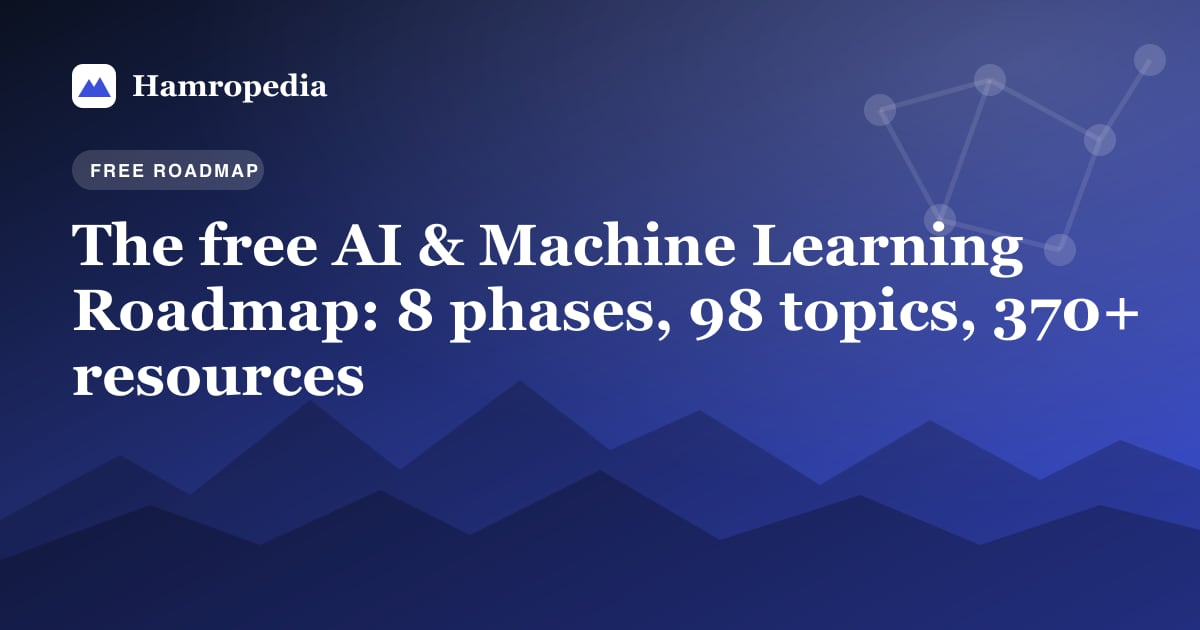
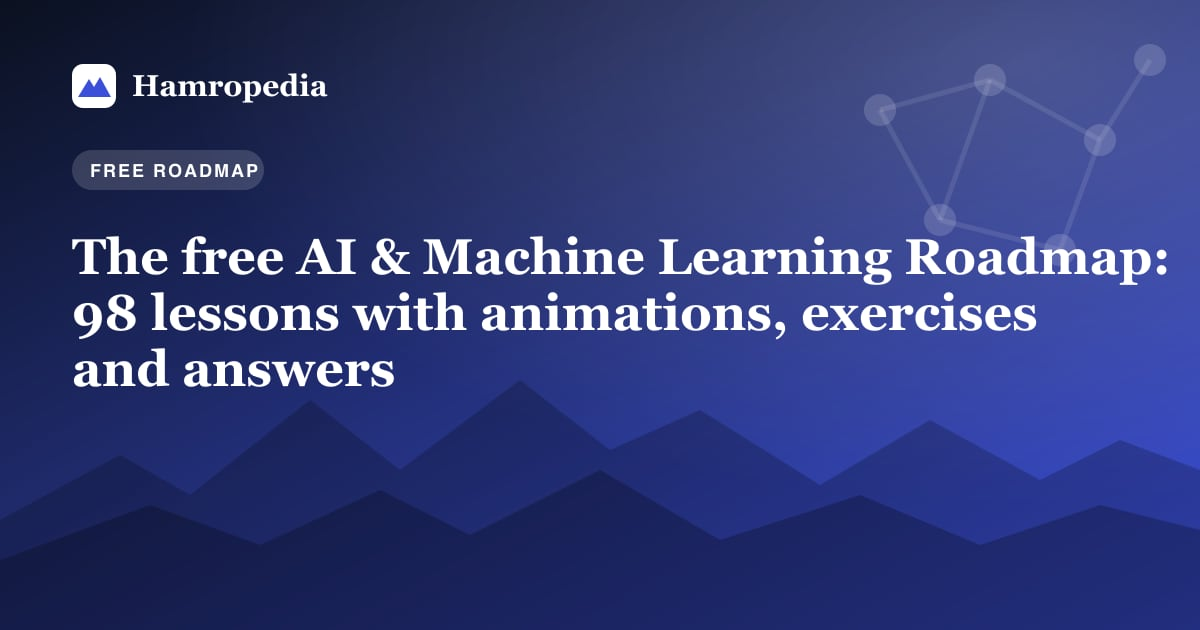
Mention all four courses across the site, not only the AI roadmap

Changed region(s): [[0.0617, 0.3317, 0.9867, 0.6333]]

diff --git a/src/pages/static.js b/src/pages/static.js
@@ -21,13 +21,13 @@ export function renderAbout(version) {
     path: '/about-us/',
     title: 'About Hamropedia',
     eyebrow: 'About',
-    description: 'Hamropedia is a free site by AI software engineer Manoj Kumar Thapa: news explained simply, study-abroad guides, a free AI roadmap and useful tools.',
+    description: 'Hamropedia is a free site by AI software engineer Manoj Kumar Thapa: news explained simply, study-abroad guides, free courses and useful tools.',
     lead: 'Carefully checked articles for curious readers everywhere: guides that match the official sites, news with its sources showing, and tools that work.',
     html: `<figure class="about-photo"><img src="/images/manojkumarthapa.webp" alt="Manoj Kumar Thapa" width="440" height="519" decoding="async"><figcaption>${esc(site.author.name)}<span>${esc(site.author.role)}, ${esc(site.author.location)}</span></figcaption></figure>
 <p>Hamropedia (<span lang="ne">हाम्रो</span>, “our”, + encyclopedia) started in ${site.established} as a small blog for Nepali students. It is now a hand-built site with three jobs:</p>
 <ul>
 <li><strong>Free tools</strong> that people actually search for every day: <a href="/tools/english-to-nepali/">English to Nepali typing</a>, a <a href="/tools/nepali-keyboard/">Nepali keyboard</a>, a <a href="/tools/nepali-date-converter/">Nepali date converter</a> and an <a href="/tools/age-calculator/">age calculator</a>.</li>
-<li><strong>Learning</strong>: a free <a href="/ai-roadmap/">AI &amp; machine learning roadmap</a> with ${'370+'} hand-picked resources, and coding guides for beginners.</li>
+<li><strong>Learning</strong>: four free courses, the <a href="/ai-roadmap/">AI &amp; Machine Learning Roadmap</a>, <a href="/system-design/">System Design</a>, <a href="/sql/">SQL</a> (with a query runner in your browser) and <a href="/dsa/">DSA (NeetCode 150)</a>, where every lesson has an animation, a diagram and exercises with answers. There are also <a href="/category/coding/">coding guides</a> for beginners. <a href="/learn/#start-here">Start here</a> to see how they fit together.</li>
 <li><strong>Guides and news</strong>: <a href="/category/study-abroad/">study-abroad guides</a> (NOC, WES, UK visas) and <a href="/news/">Nepal news explainers</a>, each linked to its sources.</li>
 </ul>
 <h2>Who writes it</h2>
@@ -182,7 +182,7 @@ export function renderTerms(version) {
 export function render404(version) {
   return layout({
     title: `Page not found | ${site.name}`,
-    description: 'This page could not be found. Try the latest news, the guides or the AI roadmap on Hamropedia.',
+    description: 'This page could not be found. Try the latest news, the guides or the free courses (AI, System Design, SQL and DSA) on Hamropedia.',
     path: '/404.html',
     noindex: true,
     version,

diff --git a/src/pages/learn.js b/src/pages/learn.js
@@ -8,18 +8,24 @@ import { sdPhases, sdTotals, CHECKS_ATTR as SD_ATTR } from './system-design.js';
 import { sqlPhases, sqlTotals, CHECKS_ATTR as SQL_ATTR } from './sql.js';
 import { dsaTopics, dsaTotals } from './dsa.js';
 
-/** The dark AI-roadmap band, shared by the home page and Learn & Build. */
+/** The dark "free courses" band on the home page: the four courses, with a way in. */
 export function roadmapBand() {
+  const courses = [
+    ['/ai-roadmap/', 'AI & Machine Learning Roadmap', `${totals.topics} lessons`, '#2563eb'],
+    ['/system-design/', 'System Design', `${sdTotals.topics} lessons`, '#0891b2'],
+    ['/sql/', 'SQL, with a query runner', `${sqlTotals.topics} lessons`, '#0d9488'],
+    ['/dsa/', 'DSA (NeetCode 150)', `${dsaTotals.problems} problems`, '#7c3aed'],
+  ];
   return `<section class="roadmap-band">
   <div class="wrap band-grid">
     <div>
-      <p class="eyebrow">Free · no sign-up</p>
-      <h2>Learn AI &amp; machine learning from zero</h2>
-      <p>${totals.phases} phases and ${totals.topics} full lessons, in the order that makes sense. Every lesson has an animation, a diagram, worked code and exercises with answers, plus the best free videos and explainers if you want more.</p>
-      <a class="btn btn-lg" href="/ai-roadmap/">Open the roadmap ${ICONS.arrow}</a>
+      <p class="eyebrow">Free courses · no sign-up</p>
+      <h2>Learn AI, system design, SQL and DSA from zero</h2>
+      <p>Four free courses that work the same way: every lesson has an animation, a diagram, worked code and exercises with answers. Tick off what you can do without notes, and the site remembers it in your browser.</p>
+      <a class="btn btn-lg" href="/learn/#start-here">Start here ${ICONS.arrow}</a>
     </div>
     <ol class="band-phases">
-      ${phases.map((p) => `<li style="--ph:${p.accent}"><a href="/ai-roadmap/${p.slug}/"><span>${p.number}</span>${esc(p.title)}</a></li>`).join('')}
+      ${courses.map(([href, name, size, colour], i) => `<li style="--ph:${colour}"><a href="${href}"><span>${i + 1}</span>${esc(name)} <small>${esc(size)}</small></a></li>`).join('')}
     </ol>
   </div>
 </section>`;
@@ -168,8 +174,8 @@ ${startHere()}
 </section>`;
 
   return layout({
-    title: `Learn & Build: free coding and AI learning paths | ${site.name}`,
-    ogTitle: 'Learn & Build: free coding and AI learning paths',
+    title: `Learn & Build: free AI, System Design, SQL and DSA courses | ${site.name}`,
+    ogTitle: 'Learn & Build: free AI, System Design, SQL and DSA courses',
     description: `Learn AI, system design, SQL and DSA for free: ${totals.topics + sdTotals.topics + sqlTotals.topics} lessons, the NeetCode 150, coding guides and project ideas.`,
     path: '/learn/',
     image: '/images/og/ai-roadmap.jpg',

diff --git a/src/pages/posts.js b/src/pages/posts.js
@@ -153,7 +153,7 @@ export function renderBlogIndex(posts, version) {
     crumbs: [{ name: 'Home', path: '/' }, { name: 'Blog', path: '/blog/' }],
     eyebrow: 'The blog',
     title: 'Guides, roadmaps and explainers',
-    lead: 'Study-abroad steps that match the official sites, coding and AI learning paths, and Nepal news explained with sources. Every article shows when it was published and last checked.',
+    lead: 'Study-abroad steps that match the official sites, coding and AI guides, and Nepal news explained with sources. Every article shows when it was published and last checked. For full courses, see <a href="/learn/">Learn &amp; Build</a>.',
   })}
 <section class="wrap blog-tools" id="search">
   <label class="search-box"><span class="sr-only">Search articles</span>
@@ -170,7 +170,7 @@ export function renderBlogIndex(posts, version) {
 </section>`;
   return layout({
     title: `Blog: study abroad, coding, AI and Nepal guides | ${site.name}`,
-    description: 'All Hamropedia articles: NOC and WES guides, UK student visa rules, coding and AI roadmaps, and news explainers with sources.',
+    description: 'All Hamropedia articles: NOC and WES guides, UK student visa rules, coding and AI guides, and news explainers with sources.',
     path: '/blog/',
     body,
     version,
@@ -193,7 +193,9 @@ export function renderCategory(slug, posts, version) {
   const crumbs = [{ name: 'Home', path: '/' }, { name: 'Blog', path: '/blog/' }, { name: c.name, path: `/category/${slug}/` }];
   const extra =
     slug === 'ai'
-      ? `<a class="banner" href="/ai-roadmap/"><strong>The free AI &amp; ML roadmap</strong><span>8 phases, 98 topics, 370+ hand-picked free resources, in order.</span></a>`
+      ? `<a class="banner" href="/ai-roadmap/"><strong>The free AI &amp; ML roadmap</strong><span>8 phases and 98 lessons, each with an animation, a diagram and exercises with answers.</span></a>`
+      : slug === 'coding'
+        ? `<a class="banner" href="/learn/#start-here"><strong>Free courses: System Design, SQL and DSA</strong><span>Full lessons with diagrams, a SQL runner in your browser, and the NeetCode 150 with reviews.</span></a>`
       : slug === 'nepal'
         ? `<a class="banner" href="/ne/" lang="ne"><strong>नेपाली समाचार</strong><span>यी समाचार नेपाली भाषामा पढ्नुहोस्।</span></a>`
         : '';

diff --git a/src/pages/home.js b/src/pages/home.js
@@ -24,7 +24,7 @@ export function renderHome(posts, version) {
     <div class="hero-copy">
       <p class="eyebrow">Hamropedia · <span lang="ne">हाम्रोपेडिया</span></p>
       <h1>News, study-abroad guides and learning, <em>explained simply</em>.</h1>
-      <p class="lead">Clear, sourced guides for studying abroad, the news that matters, and free learning paths in coding and AI, written in plain language for everyone.</p>
+      <p class="lead">Clear, sourced guides for studying abroad, the news that matters, and free courses in AI, system design, SQL and DSA, written in plain language for everyone.</p>
       <div class="hero-cta">
         <a class="btn btn-lg" href="/news/">Read the latest news</a>
         <a class="btn-ghost btn-lg" href="/blog/">Explore the guides</a>

diff --git a/src/assets/css/site.css b/src/assets/css/site.css
@@ -396,7 +396,8 @@ button { font: inherit; color: inherit; }
 
 /* ---------- footer ---------- */
 .site-footer { margin-top: clamp(64px, 9vw, 112px); border-top: 1px solid var(--border); background: var(--bg-2); padding-top: 48px; }
-.footer-grid { display: grid; grid-template-columns: 1.6fr repeat(3, 1fr); gap: 32px; }
+.footer-grid { display: grid; grid-template-columns: 1.6fr repeat(4, 1fr); gap: 32px; }
+.band-phases small { margin-left: auto; font-size: .82rem; opacity: .7; font-weight: 500; }
 .footer-about p { color: var(--muted); max-width: 42ch; margin-top: 14px; }
 .footer-h { font: 700 .8rem var(--font-body); text-transform: uppercase; letter-spacing: .1em; color: var(--muted); margin-bottom: 12px; }
 .site-footer ul { list-style: none; margin: 0; padding: 0; display: grid; gap: 8px; }

diff --git a/src/templates/layout.js b/src/templates/layout.js
@@ -169,6 +169,16 @@ function footer() {
       </ul>
     </div>
     <div>
+      <h2 class="footer-h">Free courses</h2>
+      <ul>
+        <li><a href="/ai-roadmap/">AI &amp; ML Roadmap</a></li>
+        <li><a href="/system-design/">System Design</a></li>
+        <li><a href="/sql/">SQL</a></li>
+        <li><a href="/dsa/">DSA (NeetCode 150)</a></li>
+        <li><a href="/learn/#start-here">Start here</a></li>
+      </ul>
+    </div>
+    <div>
       <h2 class="footer-h">Read</h2>
       <ul>${cats}<li><a href="/news/">News</a></li><li><a href="/blog/">All articles</a></li></ul>
     </div>

diff --git a/src/data/site.js b/src/data/site.js
@@ -5,7 +5,7 @@ export const site = {
   url: 'https://hamropedia.com', // no trailing slash
   tagline: 'News, guides and learning, explained simply',
   description:
-    'Study-abroad guides (NOC, WES, UK visas, EDV), news explained simply in English and Nepali, and free learning paths in coding and AI.',
+    'Study-abroad guides (NOC, WES, UK visas, EDV), news explained simply in English and Nepali, and free courses in AI, system design, SQL and DSA.',
   locale: 'en_GB',
   lang: 'en',
   author: {

diff --git a/src/content/posts/how-to-learn-ai-and-machine-learning-for-free.md b/src/content/posts/how-to-learn-ai-and-machine-learning-for-free.md
@@ -3,6 +3,7 @@ title: "How to Learn AI and Machine Learning for Free: A Realistic Roadmap"
 seoTitle: "How to Learn AI and Machine Learning for Free (2026 Roadmap)"
 description: "A realistic, free path into AI and machine learning: what to learn first, the best free courses and videos, the tools you need, and projects that stand out."
 date: 2026-11-01
+updated: 2026-11-03
 category: ai
 tags: [ai, machine learning, roadmap, learning, python]
 coverWord: "Learn AI"
@@ -11,7 +12,7 @@ coverAlt: "A free roadmap for learning AI and machine learning"
 
 You can learn AI and machine learning properly without paying for a single course. The best material in the world, from Stanford, MIT, Harvard, 3Blue1Brown and Andrej Karpathy, is free online. The hard part is not finding resources but **knowing what to learn, in what order, and what to skip**.
 
-That is what the [Hamropedia AI & ML Roadmap](/ai-roadmap/) is for: 8 phases and 98 topics, in order, with hand-picked free resources for each. This article explains how to use it.
+That is what the [Hamropedia AI & ML Roadmap](/ai-roadmap/) is for: 8 phases and 98 full lessons, in order. Every lesson has an animation, a diagram, worked code and four exercises with answers, plus hand-picked free videos and readings if you want a second explanation. This article explains how to use it.
 
 ## The big picture: 8 phases
 
@@ -32,7 +33,7 @@ That is what the [Hamropedia AI & ML Roadmap](/ai-roadmap/) is for: 8 phases and
 2. **One resource per topic.** Collecting courses feels like progress, but it isn't. On the roadmap, one resource per topic is marked **Worth it**. Start there.
 3. **Build, then rebuild.** Code along with a video, then close it and write the code again from a blank file. The second time is where you learn.
 4. **Explain it out loud.** If you can't explain gradient descent to a friend in two sentences, you don't know it yet.
-5. **Revisit old topics.** Every couple of weeks, test yourself on earlier topics and untick anything you've forgotten. The roadmap's tick boxes are saved in your browser for exactly this.
+5. **Revisit old topics.** Every couple of weeks, test yourself on earlier topics and untick anything you've forgotten. Each lesson's four checks (Explain, Derive, Build, Break) are saved in your browser for exactly this, and **Download my progress** keeps a copy.
 
 ## The best free resources (a starter set)
 
@@ -44,7 +45,9 @@ That is what the [Hamropedia AI & ML Roadmap](/ai-roadmap/) is for: 8 phases and
 - **Transformers:** [The Illustrated Transformer](https://jalammar.github.io/illustrated-transformer/) and Karpathy's "Let's build GPT".
 - **AI engineering:** [Your AI Product Needs Evals](https://hamel.dev/blog/posts/evals/) by Hamel Husain.
 
-The full list, with 370+ resources sorted by topic and type (video, interactive, reading, code, paper), is on the [roadmap](/ai-roadmap/).
+The full list, sorted by topic and type (video, interactive, reading, code, paper), is inside each lesson of the [roadmap](/ai-roadmap/).
+
+Aiming for an AI engineer job? Interviews usually test more than machine learning. Hamropedia has free courses for those too: [SQL](/sql/) (with a query runner in your browser), [DSA with the NeetCode 150](/dsa/) for coding rounds, and [System Design](/system-design/), including [AI and ML system design](/system-design/ai-ml-design/). The [Start here map](/learn/#start-here) shows an order to take them alongside the roadmap.
 
 ## What you need
 
